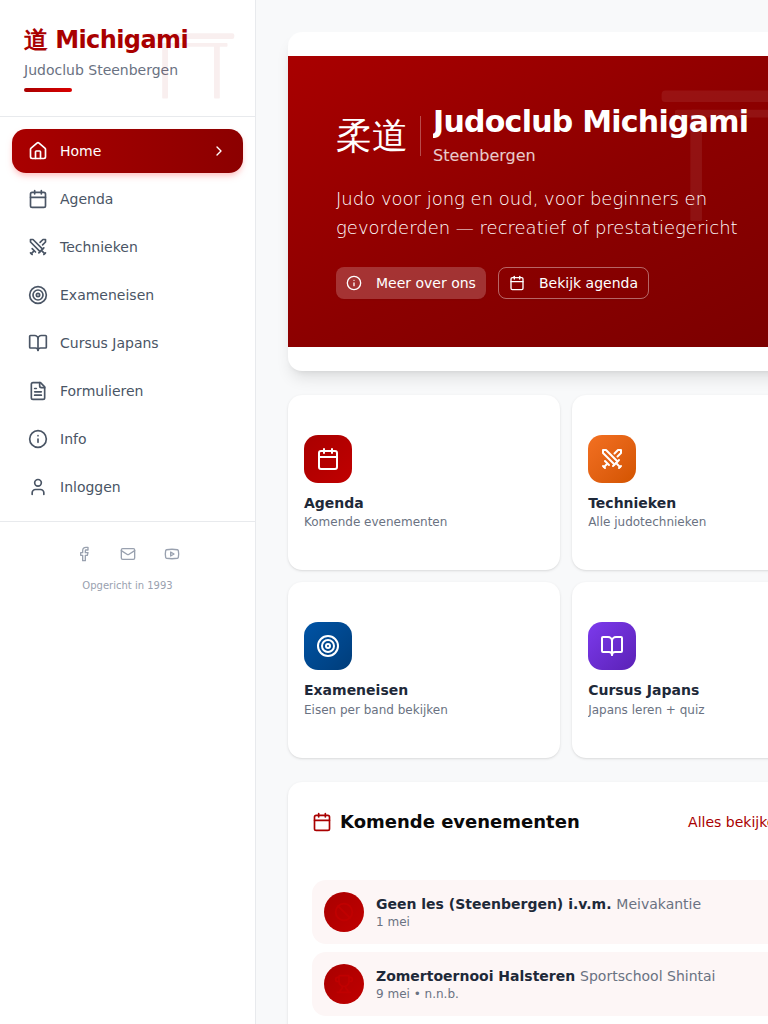
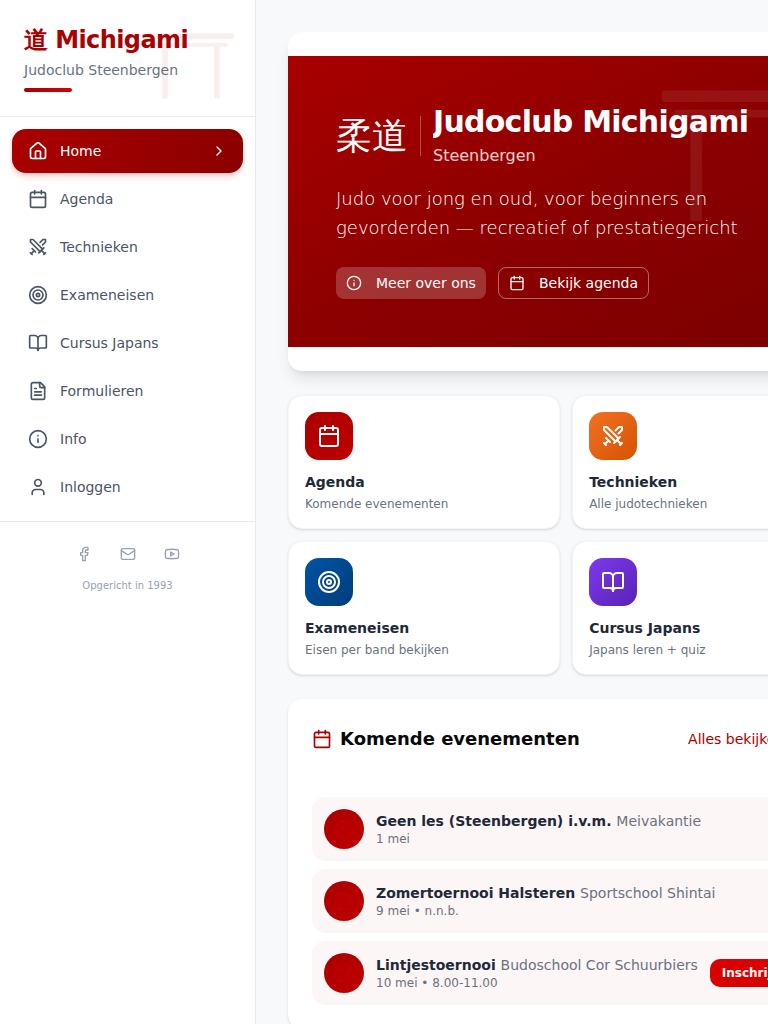
Fix: Globale overflow preventie - max-width 100vw + word-wrap op alle elementen

diff --git a/src/app/page.tsx b/src/app/page.tsx
@@ -119,9 +119,9 @@ export default function MichigamiApp() {
       )}
 
       {/* Main Content */}
-      <main className="flex-1 md:ml-64 mt-14 md:mt-0 pb-28 sm:pb-20 md:pb-0 w-full min-w-0 max-w-full">
+      <main className="flex-1 md:ml-64 mt-14 md:mt-0 pb-28 sm:pb-20 md:pb-0 w-full min-w-0">
         <ScrollArea className="h-[calc(100vh-7.5rem)] sm:h-[calc(100vh-3.5rem)] md:h-screen w-full">
-          <div className="p-2 sm:p-3 md:p-8 max-w-full sm:max-w-4xl md:max-w-6xl mx-auto w-full pb-16 sm:pb-0">
+          <div className="p-2 sm:p-4 md:p-8 max-w-[100vw] mx-auto w-full pb-16 sm:pb-0">
             {activeSection === 'home' && <HomeSection onNavigate={setActiveSection} />}
             {activeSection === 'agenda' && <AgendaSection />}
             {activeSection === 'technieken' && <TechniquesSection />}

diff --git a/src/app/globals.css b/src/app/globals.css
@@ -134,6 +134,12 @@
     overflow-x: hidden;
     max-width: 100vw;
   }
+  /* Prevent ANY element from overflowing viewport */
+  * {
+    max-width: 100%;
+    word-wrap: break-word;
+    overflow-wrap: break-word;
+  }
   /* Safe area padding for mobile bottom nav */
   .safe-area-bottom {
     padding-bottom: env(safe-area-inset-bottom, 0px);
